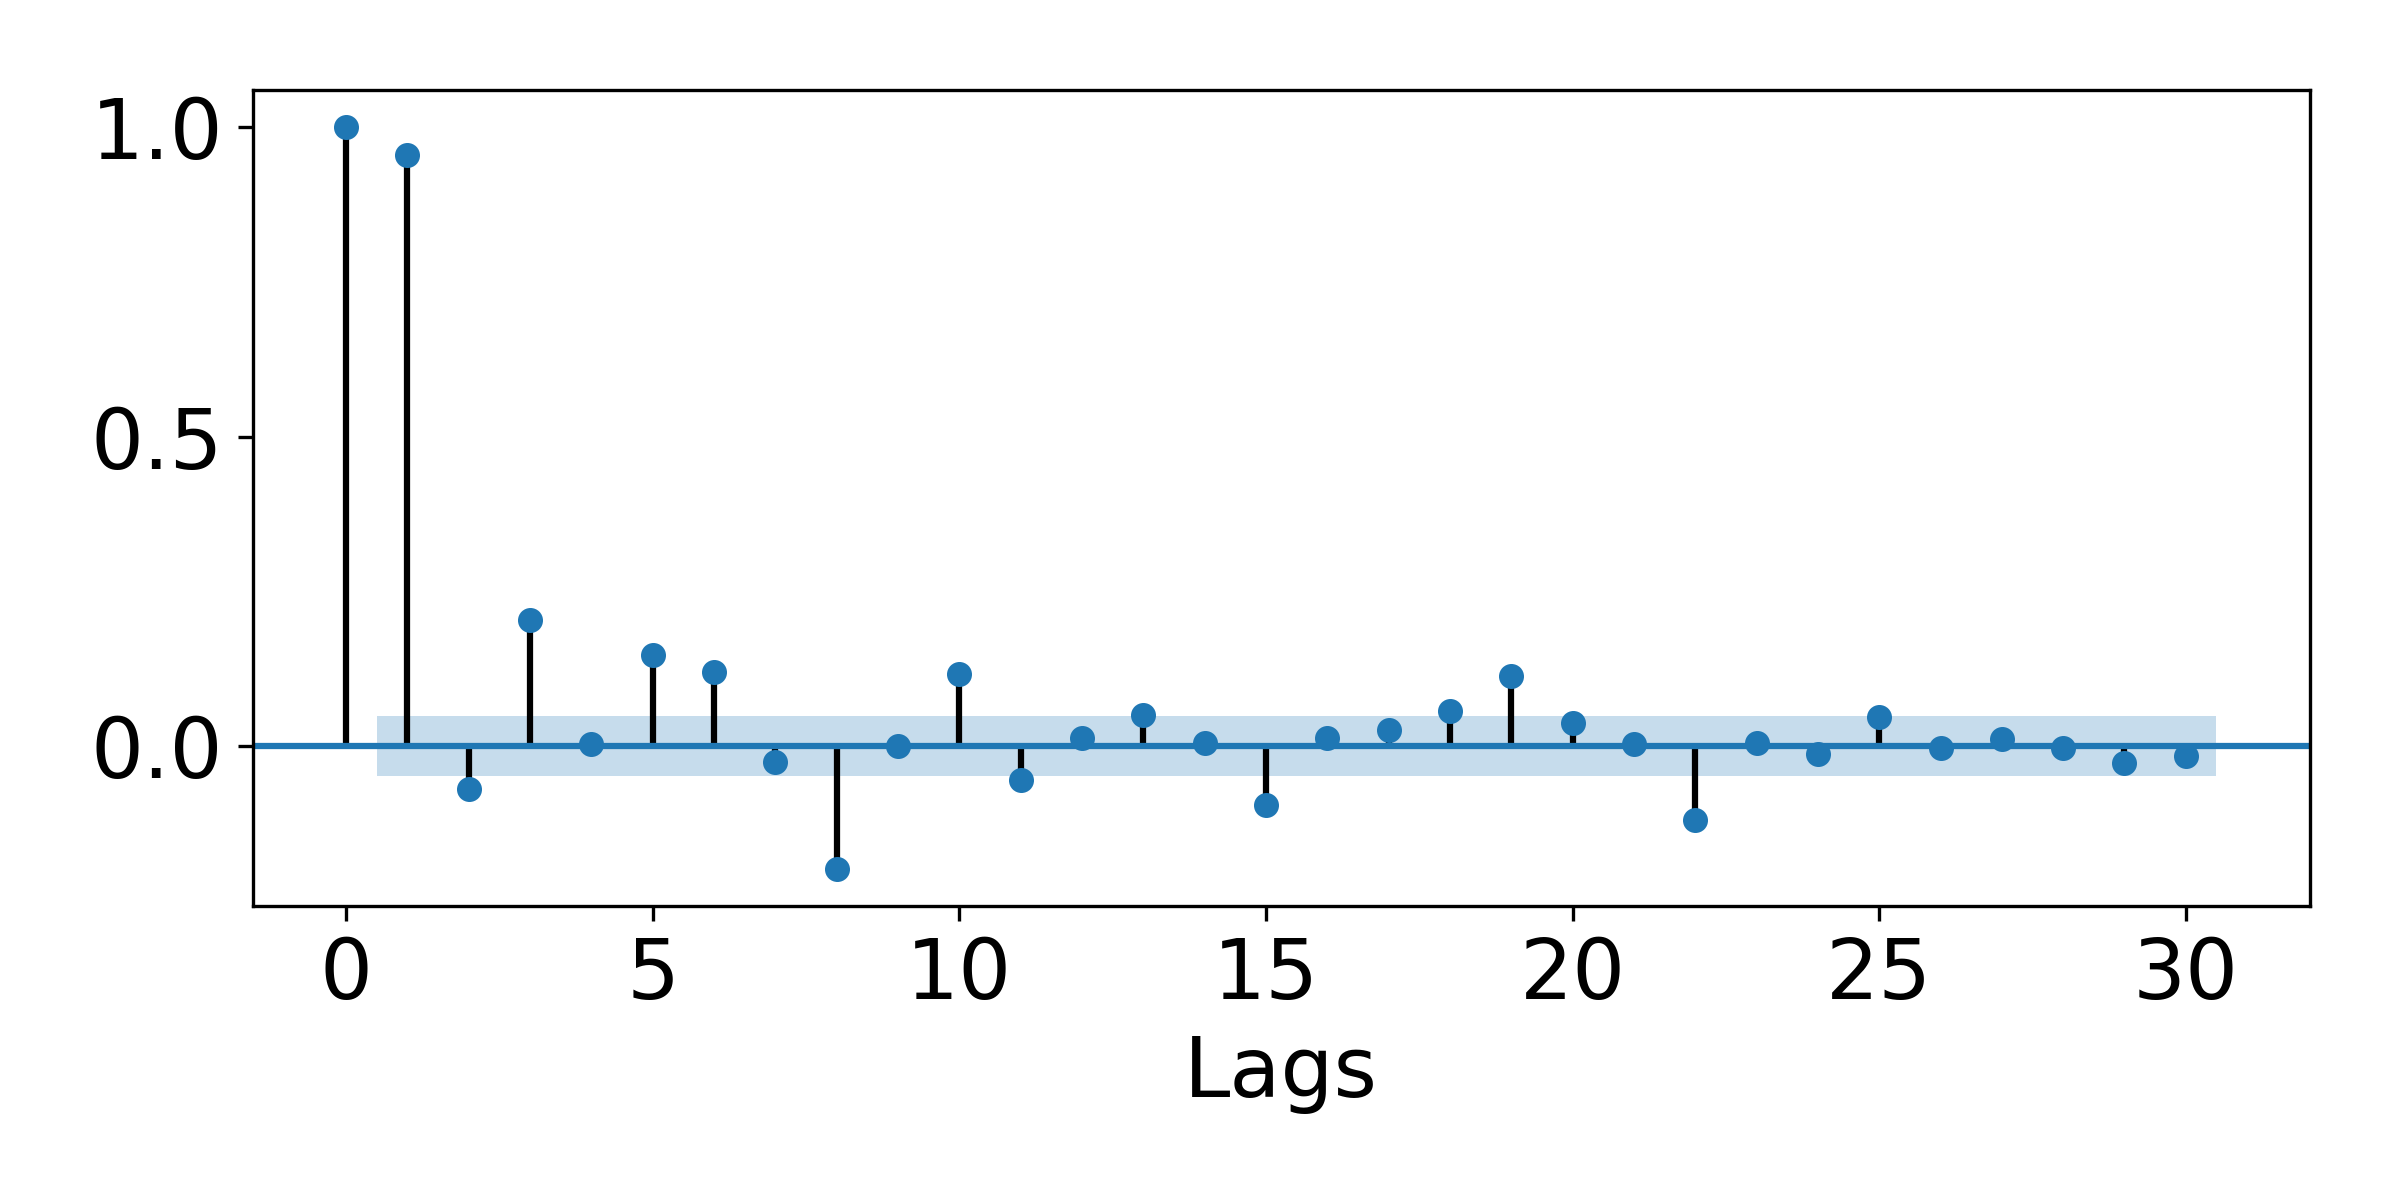
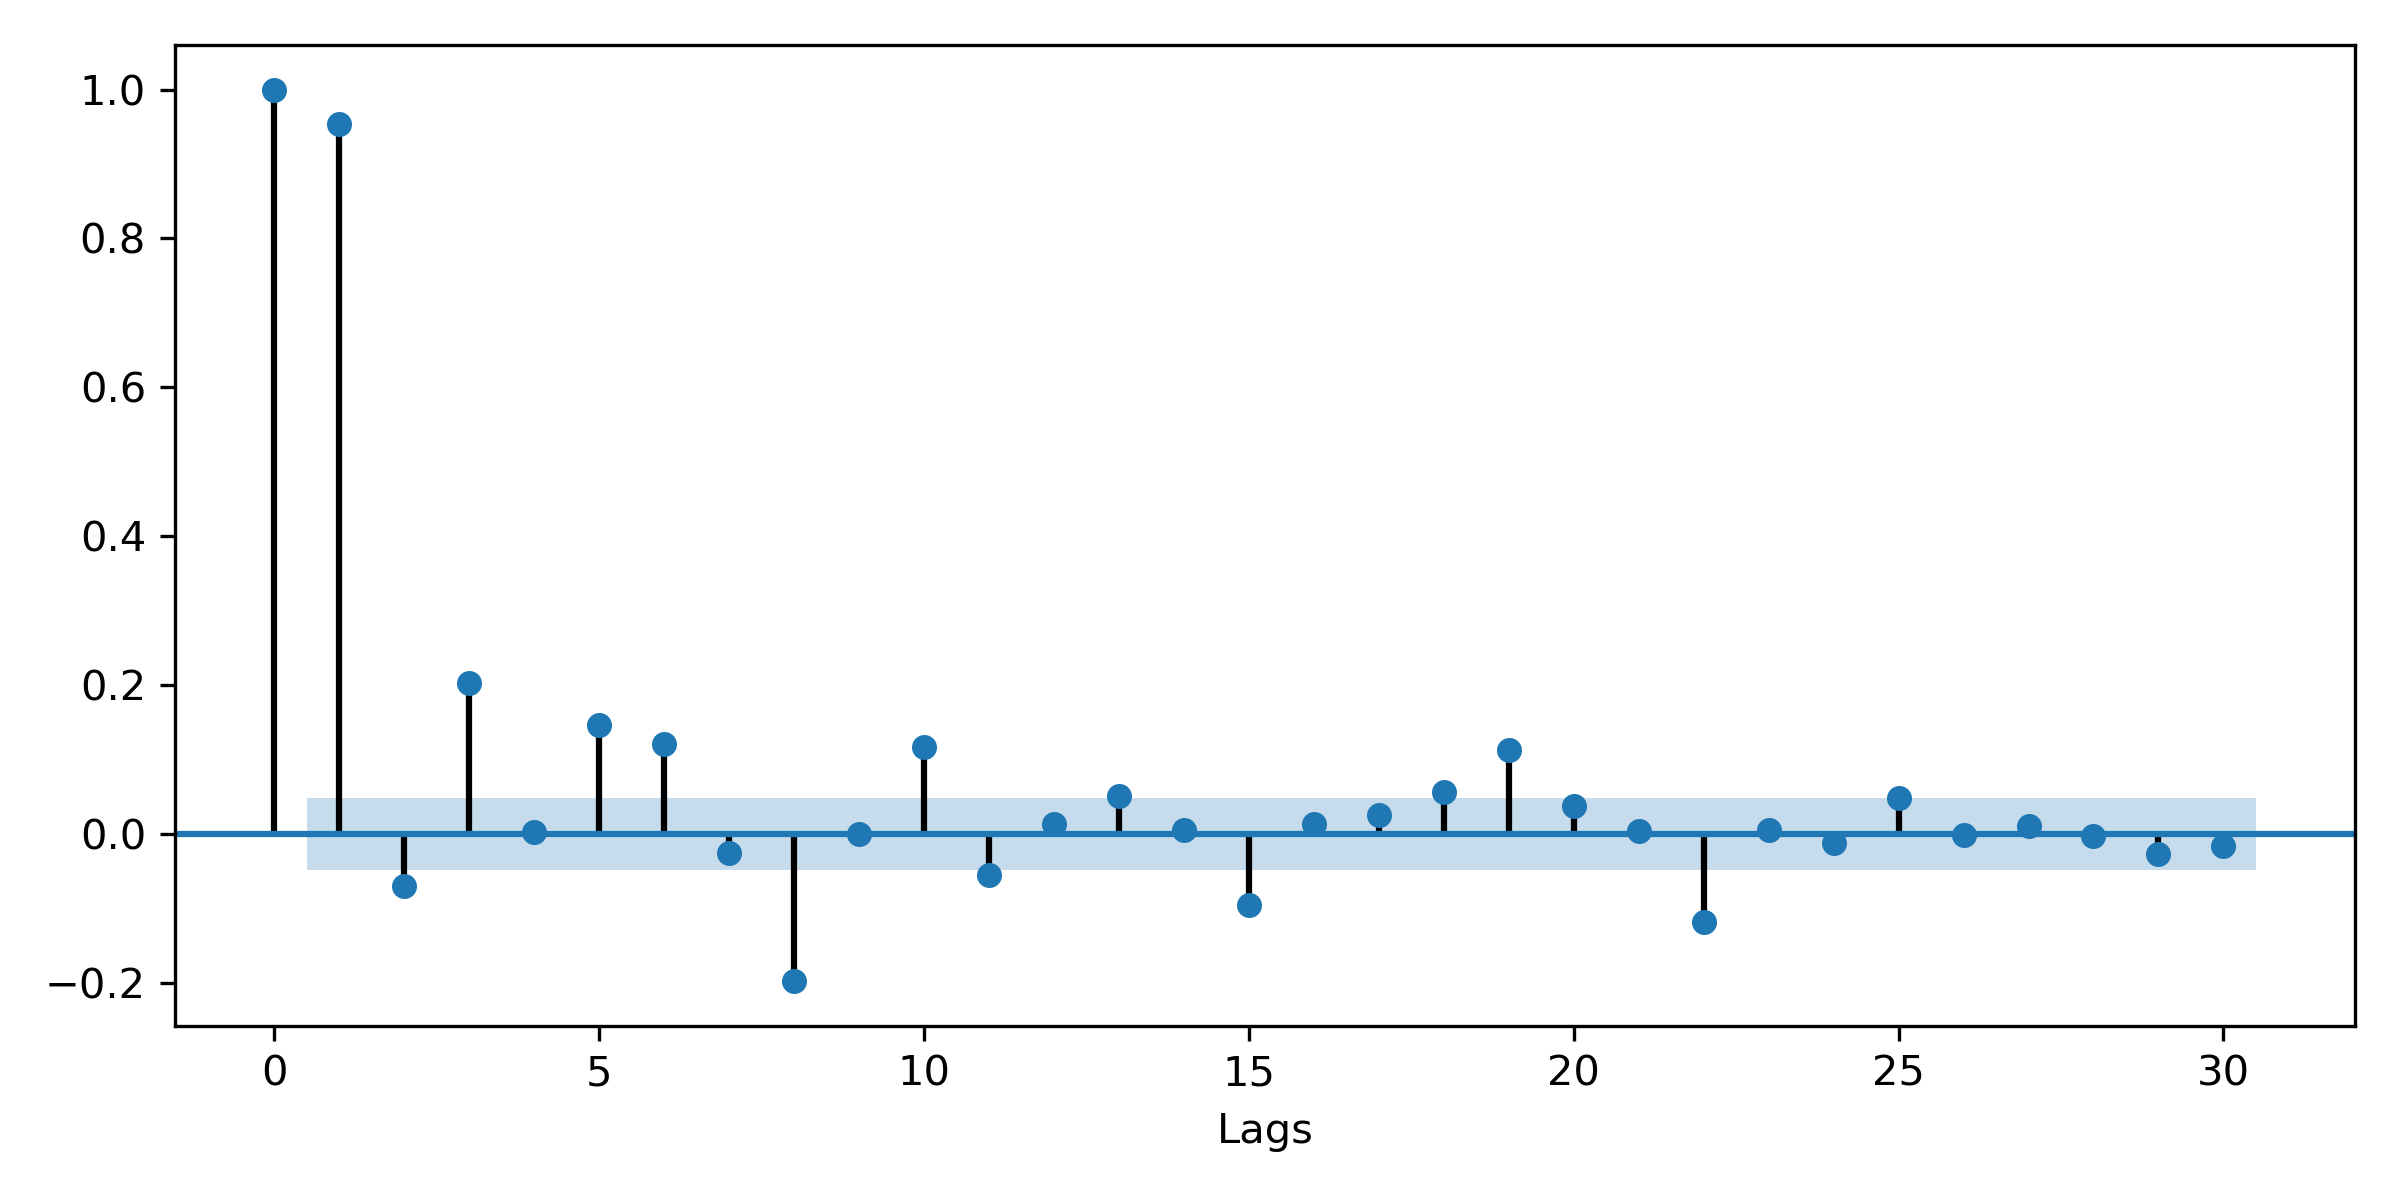
'update'

diff --git a/Model_3/Feature_selection/Results/Var_layer/Read_feature_selection_days.py b/Model_3/Feature_selection/Results/Var_layer/Read_feature_selection_days.py
@@ -1,4 +1,5 @@
 # This function reads the information relevant to the days of delays
+# This function reads the information relevant to the days of delays
 
 import numpy as np 
 import pickle as pr
@@ -78,6 +79,7 @@ def make_plot_3d( path, Name, X, Y, Z, X_name, Y_name, Z_name, file_name , extre
     
     import os
     import matplotlib.pyplot as plt
+    import matplotlib
     
     if extrema =='min':
         
@@ -88,20 +90,25 @@ def make_plot_3d( path, Name, X, Y, Z, X_name, Y_name, Z_name, file_name , extre
     for i in range(len(Z)):
         if Z[i] == value_index:
             index = i
-        
-    fig = plt.figure()
+    
+    font = {'size'   : 18}
+    matplotlib.rc('font', **font)
+    
+    fig = plt.figure(figsize=(4,4.8))
     ax = plt.axes()
     fig.suptitle(Name)
     
     a = ax.scatter( X, Y, c=Z, cmap='tab20', s=50 )
     fig.colorbar(a)
     a = ax.plot( X[index], Y[index] , 'ko' , markersize=25 , fillstyle='none')
+    ax.set_xlabel('Days delays')
+    ax.set_ylabel('Days ahead')
+    plt.xticks([0,1,2,3,4,5])
     
     if not os.path.exists(path):
         os.makedirs(path)
 
     plt.savefig(path+'/'+file_name+'.png',dpi=300)
-
 
 # %% To read feature_selection_all_2
 
@@ -116,17 +123,17 @@ Y=np.array( [0,1,2,3,4,5,0,1,2,3,4,5,0,1,2,3,4,5,0,1,2,3,4,5,0,1,2,3,4,5,0,1,2,3
 X=np.array( [0,0,0,0,0,0,1,1,1,1,1,1,2,2,2,2,2,2,3,3,3,3,3,3,4,4,4,4,4,4,5,5,5,5,5,5])
 
 path = 'C:/Users/Paulo_Rocha/Desktop/Tese/Tese_code/Model_3/Feature_Selection/Results/Var_layer/Plots'
-Name_r = 'Number of days before and after (r)'
-plot_name = 'N_days_r'
+Name_r = 'r'
+plot_name = 'N_days_r_b'
 
 make_plot_3d( path, Name_r, X, Y, R, 'Days before', 'Days lags', 'r validation', plot_name ,'max')
 
-Name_r = 'Number of days before and after (RMSE)'
-plot_name = 'N_days_RMSE'
+Name_r = 'RMSE'
+plot_name = 'N_days_RMSE_b'
 
 make_plot_3d( path, Name_r, X, Y, RMSE, 'Days before', 'Days lags', 'r validation', plot_name ,'min')
-Name_r = 'Number of days before and after (MAE)'
-plot_name = 'N_days_MAE'
+Name_r = 'MAE'
+plot_name = 'N_days_MAE_b'
 
 make_plot_3d( path, Name_r, X, Y, MAE, 'Days before', 'Days lags', 'r validation', plot_name ,'min')
 

diff --git a/Model_4/Feature_selection/Results/Var_layer/Read_feature_selection_days.py b/Model_4/Feature_selection/Results/Var_layer/Read_feature_selection_days.py
@@ -78,6 +78,7 @@ def make_plot_3d( path, Name, X, Y, Z, X_name, Y_name, Z_name, file_name , extre
     
     import os
     import matplotlib.pyplot as plt
+    import matplotlib
     
     if extrema =='min':
         
@@ -88,18 +89,24 @@ def make_plot_3d( path, Name, X, Y, Z, X_name, Y_name, Z_name, file_name , extre
     for i in range(len(Z)):
         if Z[i] == value_index:
             index = i
-        
-    fig = plt.figure()
+    
+    font = {'size'   : 18}
+    matplotlib.rc('font', **font)
+    
+    fig = plt.figure(figsize=(4,4.8))
     ax = plt.axes()
     fig.suptitle(Name)
     
     a = ax.scatter( X, Y, c=Z, cmap='tab20', s=50 )
     fig.colorbar(a)
     a = ax.plot( X[index], Y[index] , 'ko' , markersize=25 , fillstyle='none')
+    ax.set_xlabel('Days delays')
+    ax.set_ylabel('Days ahead')
+    plt.xticks([0,1,2,3,4,5])
     
     if not os.path.exists(path):
         os.makedirs(path)
-
+    
     plt.savefig(path+'/'+file_name+'.png',dpi=300)
 
 
@@ -116,17 +123,17 @@ Y=np.array( [0,1,2,3,4,5,0,1,2,3,4,5,0,1,2,3,4,5,0,1,2,3,4,5,0,1,2,3,4,5,0,1,2,3
 X=np.array( [0,0,0,0,0,0,1,1,1,1,1,1,2,2,2,2,2,2,3,3,3,3,3,3,4,4,4,4,4,4,5,5,5,5,5,5])
 
 path = 'C:/Users/Paulo_Rocha/Desktop/Tese/Tese_code/Model_4/Feature_Selection/Results/Var_layer/Plots'
-Name_r = 'Number of days before and after (r)'
-plot_name = 'N_days_r'
+Name_r = 'r'
+plot_name = 'N_days_r_t'
 
 make_plot_3d( path, Name_r, X, Y, R, 'Days before', 'Days lags', 'r validation', plot_name ,'max')
 
-Name_r = 'Number of days before and after (RMSE)'
-plot_name = 'N_days_RMSE'
+Name_r = 'RMSE'
+plot_name = 'N_days_RMSE_t'
 
 make_plot_3d( path, Name_r, X, Y, RMSE, 'Days before', 'Days lags', 'r validation', plot_name ,'min')
-Name_r = 'Number of days before and after (MAE)'
-plot_name = 'N_days_MAE'
+Name_r = 'MAE'
+plot_name = 'N_days_MAE_t'
 
 make_plot_3d( path, Name_r, X, Y, MAE, 'Days before', 'Days lags', 'r validation', plot_name ,'min')
 

diff --git a/Hyperparameter_Tuning/Hypertuning.py b/Hyperparameter_Tuning/Hypertuning.py
@@ -137,14 +137,14 @@ tuner_1 = kt.BayesianOptimization(model_creation_1,
                                   tune_new_entries=True, 
                                   allow_new_entries=True,
                                   directory = path,
-                                  project_name = 'Model_1_SGD_2',
+                                  project_name = 'Model_1_SGD_69',
                                   overwrite=False,
                                   executions_per_trial=3)
 
-# tuner_1.search(x=Train_in_1,
-#                y=Train_out_1,
-#                validation_data=(Val_in_1, Val_out_1),
-#                verbose = 0)
+tuner_1.search(x=Train_in_1,
+               y=Train_out_1,
+               validation_data=(Val_in_1, Val_out_1),
+               verbose = 1)
 
 
 print('\nModel_1_Summary\n')

diff --git a/ARMAX/Compare_results/Model_2/My_plot_.py b/ARMAX/Compare_results/Model_2/My_plot_.py
@@ -71,7 +71,7 @@ def make_plot_line( path, Name, Time, Name_time, Y_name, *args ):
     ax1.grid(linewidth=0.5)
     ax2.grid(linewidth=0.5)
     ax1.xaxis.set_major_locator(months)
-    ax1.set_xticks(ax1.get_xticks()[0::2])
+    ax1.set_xticks(ax1.get_xticks()[0::3])
     ax1.xaxis.set_major_formatter(Month)
 
     plt.tight_layout()

diff --git a/Data_Analisys/Partial_auto_correltation.py b/Data_Analisys/Partial_auto_correltation.py
@@ -68,7 +68,7 @@ Touro, Brandariz, Portodemouros = pr.load(open("Dams.p","rb"))
 
 method_ ='ldb'
 
-font = {'size'   : 20}
+font = {'size'   : 10}
 matplotlib.rc('font', **font)
 
 Inflow_P =  np.asarray(clean_None(Portodemouros[4]))

diff --git a/Model_1/Main_function.py b/Model_1/Main_function.py
@@ -15,7 +15,7 @@ path = os.getcwd()
 
 # Number_trial = input('Number of trials: ')
 
-name_model = 'time_test'
+name_model = 'time_test_____'
 Number_trial =30
 
 Number_trial =int(Number_trial)
